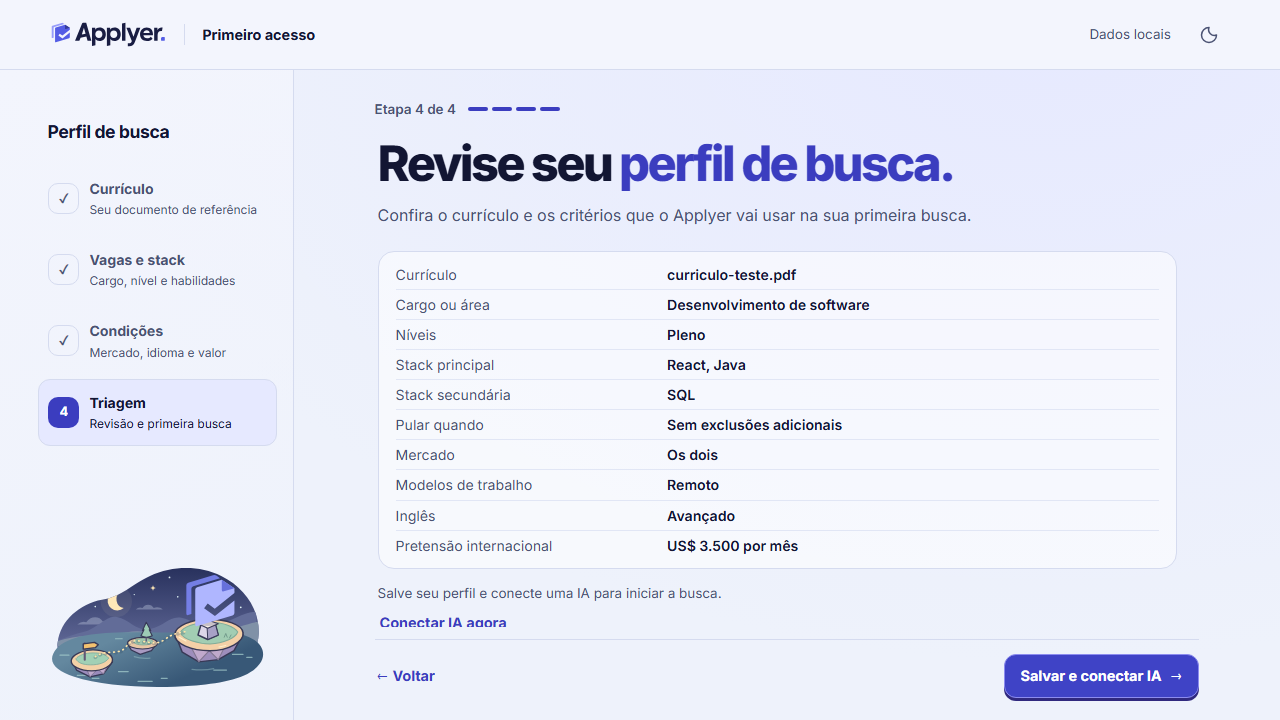
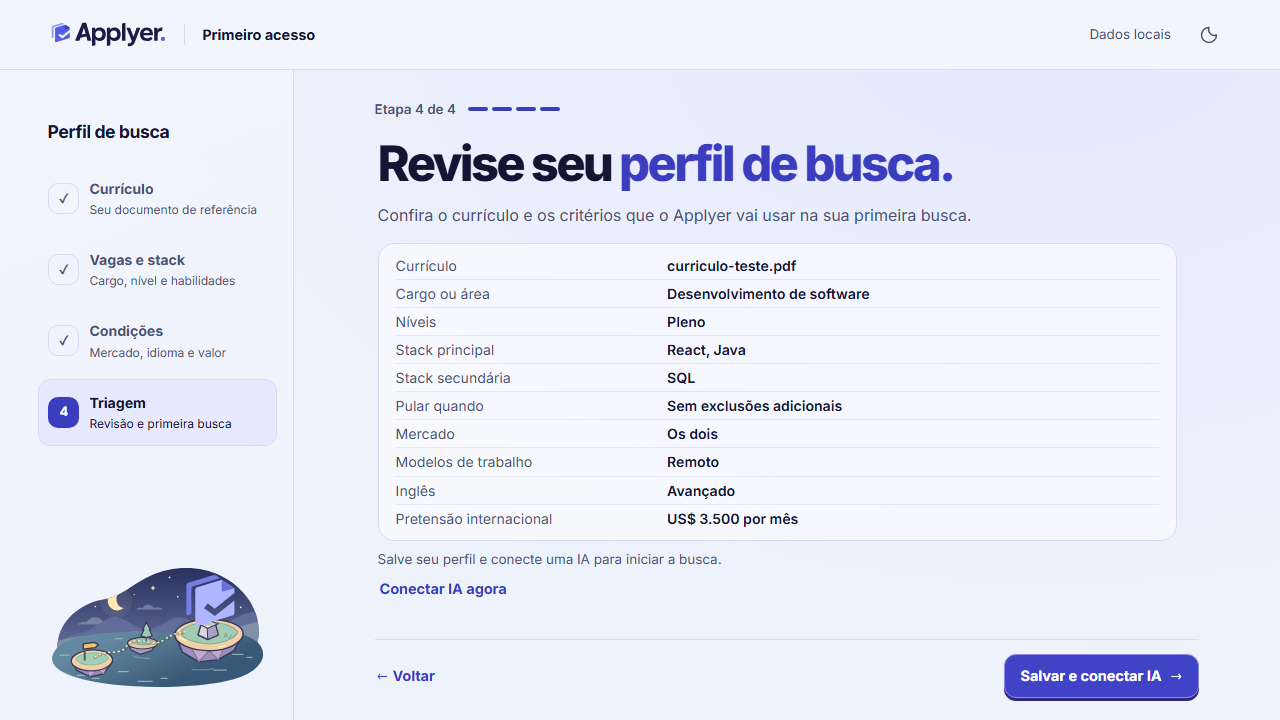
Mantém a ação de salvar visível em janelas de notebook

Changed region(s): [[0.2812, 0.3667, 0.6875, 0.8861]]

diff --git a/app/frontend/src/estilo/primeiro-acesso.css b/app/frontend/src/estilo/primeiro-acesso.css
@@ -83,7 +83,9 @@
   #pa-principal > form > section { flex: 1 1 auto; min-height: 0; overflow-y: auto; scrollbar-gutter: stable; padding: 3px 7px 5px 3px; }
   .pa-andamento, .pa-erro, .pa-acoes { flex-shrink: 0; }
   .pa-andamento { margin-bottom: 16px; }.pa-acoes { margin-top: 12px; padding-top: 14px; }
-  .pa-resumo div { padding-block: 4px; }
+  #pa-principal section:has(.pa-resumo) .pa-sub { margin-bottom: 16px; }
+  .pa-resumo div { padding-block: 3px; }
+  .pa-resumo + .pa-nota { margin-top: 8px; }
 }
 @media(max-width: 760px) {
   .pa-janela { display: block; }.pa-rail { padding: 10px 16px; border: 0; border-bottom: 1px solid var(--linha); }
